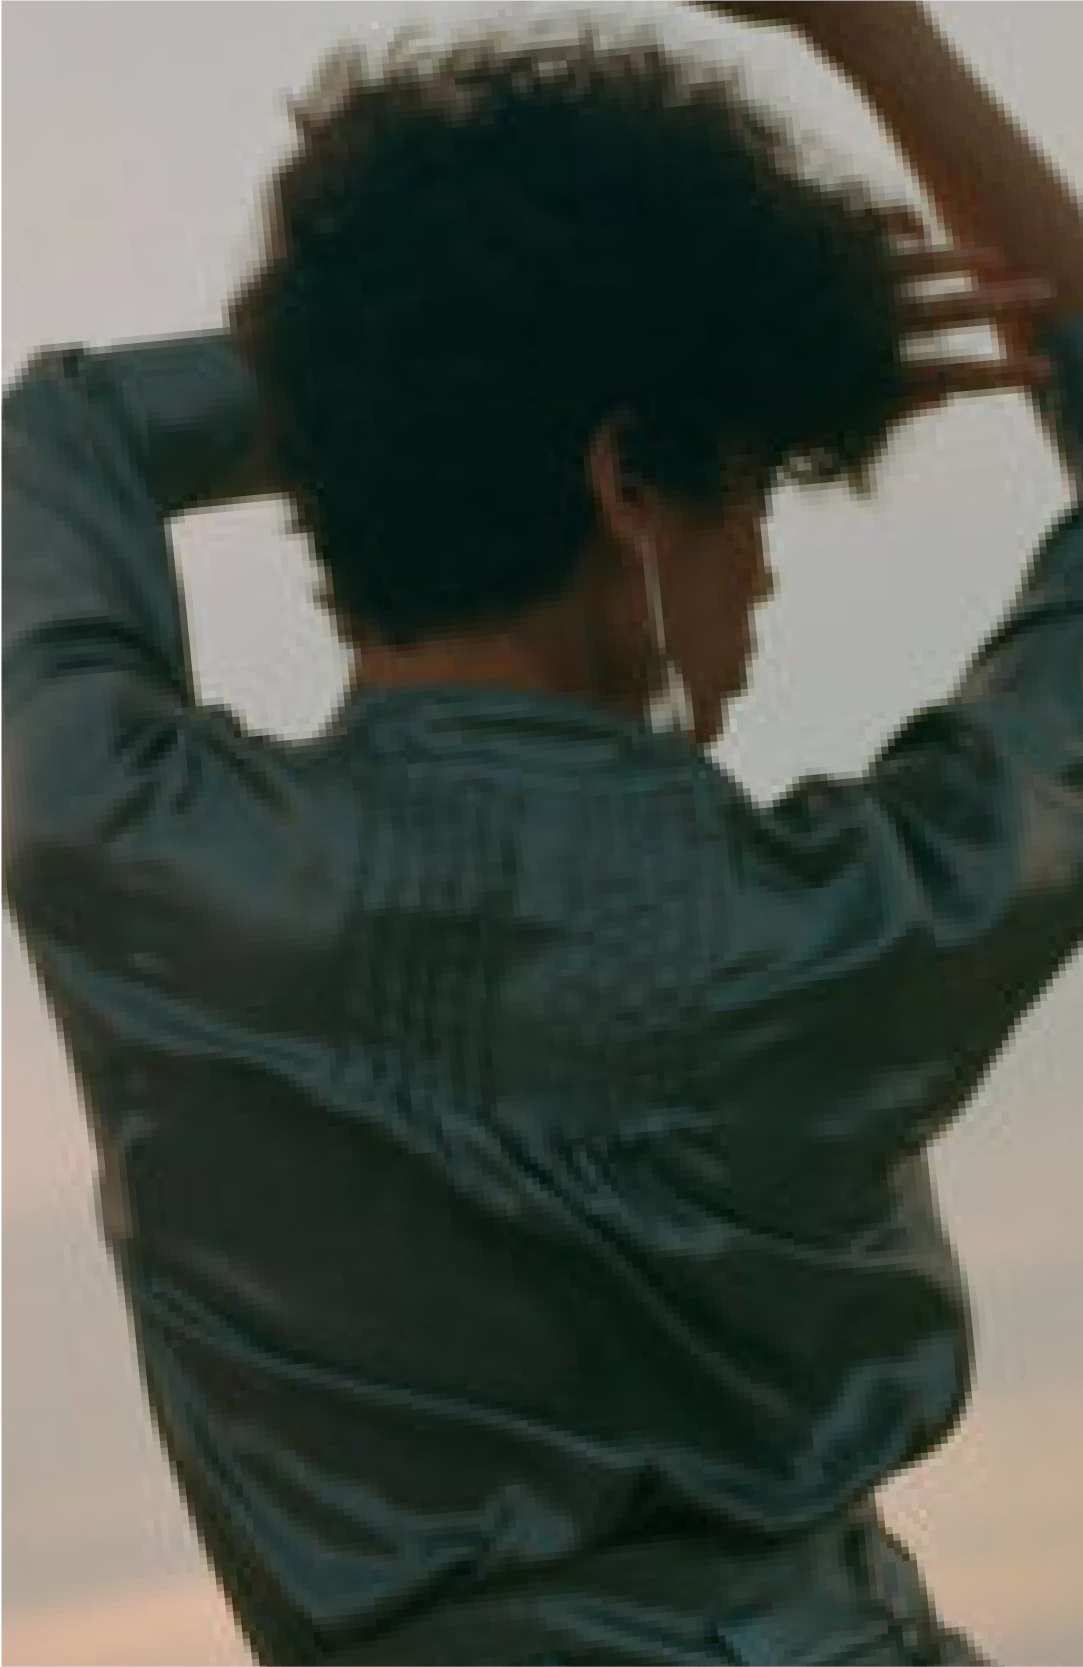
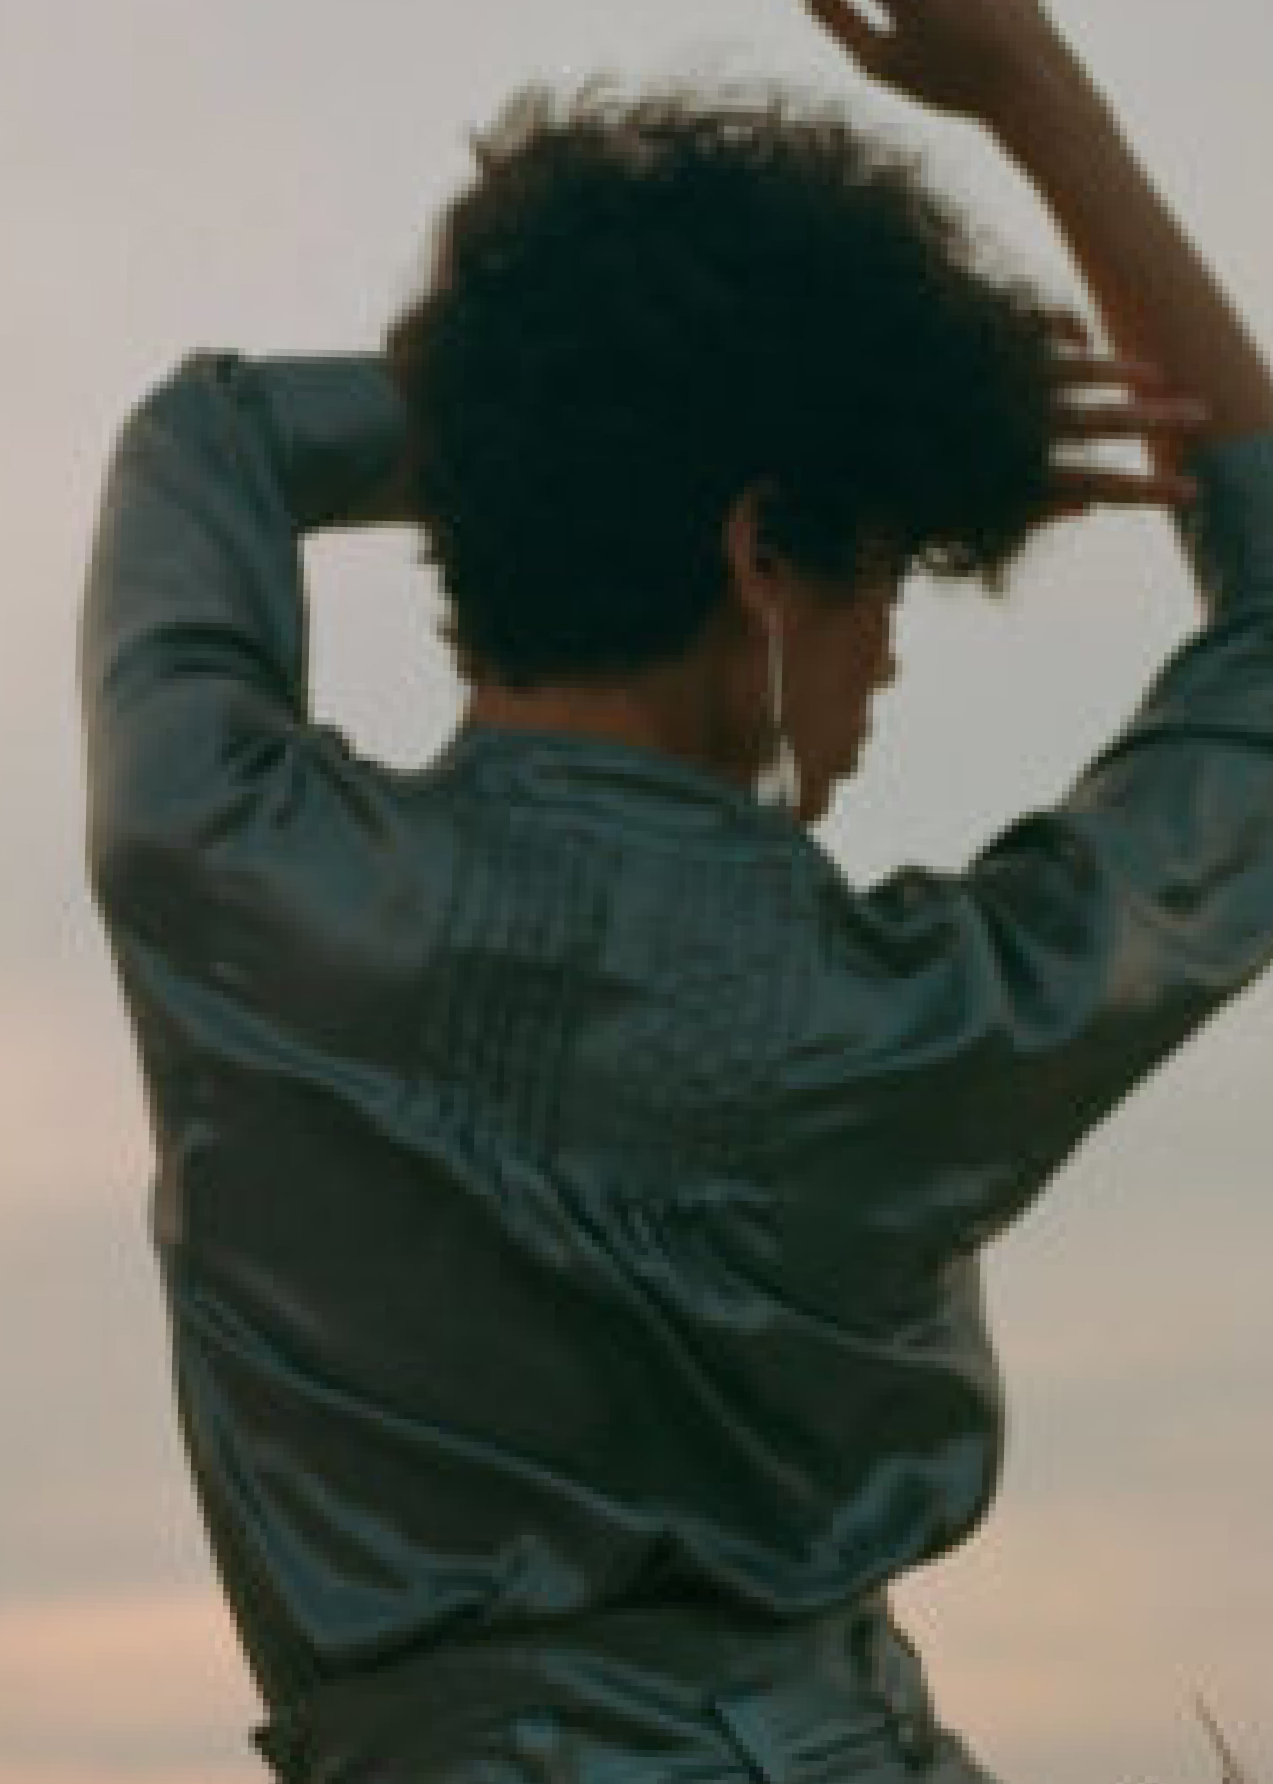
solved some problems

diff --git a/css/style.css b/css/style.css
@@ -38,15 +38,18 @@ img {
   max-width: 100%;
   height: auto;
 }
+.header{
+  position: absolute;
+  width: 100%;
+  top: 56px;
+}
 .header__nav {
   display: flex;
   justify-content: space-between;
-  position: relative;
   margin: 0 auto;
   padding: 0 20px;
-  top: 54px;
   max-width: 1280px;
-  height: 24px;
+  width: 100%;
   font-family: "sfprodisplay";
   font-weight: 400;
 }
@@ -64,7 +67,7 @@ img {
   font-size: 18px;
   text-decoration: none;
 }
-.logo {
+.logo__img {
   width: 170px;
   height: 24px;
   transform: translateX(12px);
@@ -107,7 +110,7 @@ img {
   position: relative;
   transform: translateX(200px);
 }
-.photograhpers-info {
+.photograhper-info {
   width: 100%;
   height: 18px;
   display: flex;
@@ -128,7 +131,7 @@ img {
   margin: 0 auto;
   padding: 0 20px;
 }
-.photographers-info__label {
+.photographer-info__label {
   display: flex;
   width: 142px;
   height: 18px;
@@ -136,12 +139,15 @@ img {
   font-weight: 400;
   font-size: 18px;
 }
-.photographers-info__number {
+.photographer-info__number {
   display: flex;
   height: 18px;
   width: 102px;
   color: rgba(242, 242, 242, 1);
   justify-content: flex-end;
+}
+.visually-hidden{
+  color: #ffffff;
 }
 .contact {
   background-image: url("/images/contact-page-cover.jpg");
@@ -184,6 +190,9 @@ img {
   position: relative;
   transform: translateY(-23px);
 }
+.underlined{
+  text-decoration: underline;
+}
 .contact__text {
   font-family: "sfprodisplay";
   font-weight: 100;
@@ -201,7 +210,7 @@ img {
 }
 /* код для About */
 .site-wrap {
-  overflow-x: hidden;
+  overflow: hidden;
 }
 .about {
   background-image: url("/images/about-cover.jpg");
@@ -234,10 +243,11 @@ img {
   position: relative;
   margin: 0 auto;
   z-index: 1;
-  transform: translateY(48%);
+  top: 122px;
 }
 .background {
   color: rgba(141, 141, 141, 1);
+  top: 92px;
 }
 .job-name {
   font-family: "sfprodisplay";
@@ -266,7 +276,7 @@ img {
   margin: 0 auto;
   justify-content: space-between;
   margin-bottom: 274px;
-  transform: translateY(300%);
+  top: 168px;
 }
 
 .info__wrap {
@@ -274,38 +284,84 @@ img {
   flex-direction: column;
   justify-content: space-between;
 }
-.images__wrap{
+.images__wrap {
   position: relative;
   transform: translateY(169px);
 }
 .background-wrap {
   display: flex;
 }
-.photo--2{
+.photo--2 {
   margin-bottom: 92px;
 }
 .photo--3 {
   position: relative;
-  transform: translateX(23%);
+  left: 235px;
+  top: -60px;
 }
-.photo--4{
+.photo--4 {
   margin-top: 200px;
+  position: relative;
+  bottom: 60px;
 }
-.photo--5{
-  position:relative;
+.photo--5 {
+  position: relative;
   width: 575px;
   height: 886px;
-  margin-left:777px;
-  transform: translateY(5%);
-  margin-top: 279px;
+  left: 777px;
+  top: 417px;
 }
-.photo--6{
-  margin-left: 88px;
+.photo--6 {
+  position: relative;
+  left: 88px;
+  top: 85px;
 }
-.photo--7{
-  position: absolute;
-  margin-left: 707px;
-  width: 575px;
-  height: 886px;
-  transform: translateY(-34%);
+.photo--7 {
+  position: relative;
+  left: 707px;
+  bottom: 160px;
+}
+.background-texts {
+  display: flex;
+  flex-direction: column;
+  align-content: center;
+  z-index: 0;
+  position: relative;
+  top: 292px;
+}
+.text--1 {
+  -webkit-text-fill-color: transparent; /* Will override color (regardless of order) */
+  -webkit-text-stroke-width: 1px;
+  -webkit-text-stroke-color: #8d8d8d;
+  font-size: 260px;
+  font-weight: 200;
+}
+.text--2 {
+  -webkit-text-fill-color: transparent; /* Will override color (regardless of order) */
+  -webkit-text-stroke-width: 1px;
+  -webkit-text-stroke-color: #8d8d8d;
+  font-size: 260px;
+  font-weight: 200;
+}
+.text--3 {
+  font-size: 260px;
+  font-weight: 200;
+}
+.img--1 {
+  width: 540.9px;
+  height: 833.11px;
+  rotate: 6.85deg;
+  z-index: 1;
+  position: relative;
+  left: 450px;
+  bottom: 515px;
+}
+.img--2 {
+  width: 540.9px;
+  height: 833.11px;
+  rotate: -3deg;
+  z-index: 1;
+  position: relative;
+  left: 746px;
+  bottom: 488px;
 }

diff --git a/index.html b/index.html
@@ -9,17 +9,21 @@
   </head>
   <body class="site">
     <header class="header">
-      <nav class="header__nav">
-        <div class="header__info-wrap">
-          <a href="#" class="header__info">ABOUT</a>
-        </div>
-        <div class="logo">
-          <img src="/images/melanish-logo.svg" alt="site-logo" class="logo" />
-        </div>
-        <div class="header__contact-wrap">
-          <a href="#" class="header__connection">CONTACT</a>
-        </div>
-      </nav>
+        <nav class="header__nav">
+          <div class="header__info-wrap">
+            <a href="#" class="header__info">ABOUT</a>
+          </div>
+          <div class="logo">
+            <img
+              src="/images/melanish-logo.svg"
+              alt="site-logo"
+              class="logo__img"
+            />
+          </div>
+          <div class="header__contact-wrap">
+            <a href="#" class="header__connection">CONTACT</a>
+          </div>
+        </nav>
     </header>
     <main class="site__main">
       <section class="photographers">
@@ -57,10 +61,10 @@
             <h2 class="photographer__name">Problem</h2>
           </div>
         </div>
-        <div class="photograhpers-info">
+        <div class="photograhper-info">
           <div class="photographer-info__wrap">
-            <h2 class="photographers-info__label">PHOTOGRAPHER</h2>
-            <div class="photographers-info__number">
+            <h2 class="photographer-info__label">PHOTOGRAPHER</h2>
+            <div class="photographer-info__number">
               <span class="current">05</span>
               <span class="amount">/</span>
               <span class="total">13</span>

diff --git a/about.html b/about.html
@@ -15,7 +15,7 @@
             <a href="#" class="header__info">ABOUT</a>
           </div>
           <div class="logo">
-            <img src="/images/melanish-logo.svg" alt="site-logo" class="logo" />
+            <img src="/images/melanish-logo.svg" alt="site-logo" class="logo__img" />
           </div>
           <div class="header__contact-wrap">
             <a href="#" class="header__connection">CONTACT</a>
@@ -27,7 +27,7 @@
           <div class="images__hero-wrap">
             <h2 class="images__main-title">Editorial</h2>
             <img
-              src="/images/about/main-imgjpg.jpg"
+              src="/images/about/main-img.jpg"
               alt=""
               class="images__main-img"
             />
@@ -68,9 +68,21 @@
           <div class="images__same--2">
             <img src="/images/about/img-7.jpg" alt="" class="photo--7" />
           </div>
+          <div class="background-texts">
+              <h2 class="images__main-title text--1">Editorial</h2>
+              <h2 class="images__main-title text--2">Editorial</h2>
+              <h2 class="images__main-title text--3">Editorial</h2>
+          </div>
+          <div class="slide-wrap">
+            <img src="/images/about/slide-img-1.jpg" alt="" class="img--1">
+            <img src="/images/about/slide-img-2.jpg" alt="" class="img--2">
+          </div>
         </div>
         </section>
       </main>
+      <footer class="site-footer">
+        
+      </footer>
     </div>
   </body>
 </html>

diff --git a/contact.html b/contact.html
@@ -13,16 +13,13 @@
       <section class="contact__info">
         <div class="contact__wrap">
           <p class="contact__contact">Contact</p>
-          <a href="#" class="contact__mail">MELANIE@GMAIL.COM</a>
-          <div class="contact__line">
-          
-          </div>
+          <a href="#" class="contact__mail">MELANIE@<span class="underlined">GMAIL.COM</span></a>
           <p class="contact__text">
             Image Have Been Captrued By Geoff Levy And Natalie Schneider.
           </p>
         </div>
       </section>
     </main>
-    <footer class="contact__footer"></footer>
+    <footer class="site-footer"></footer>
   </body>
 </html>
